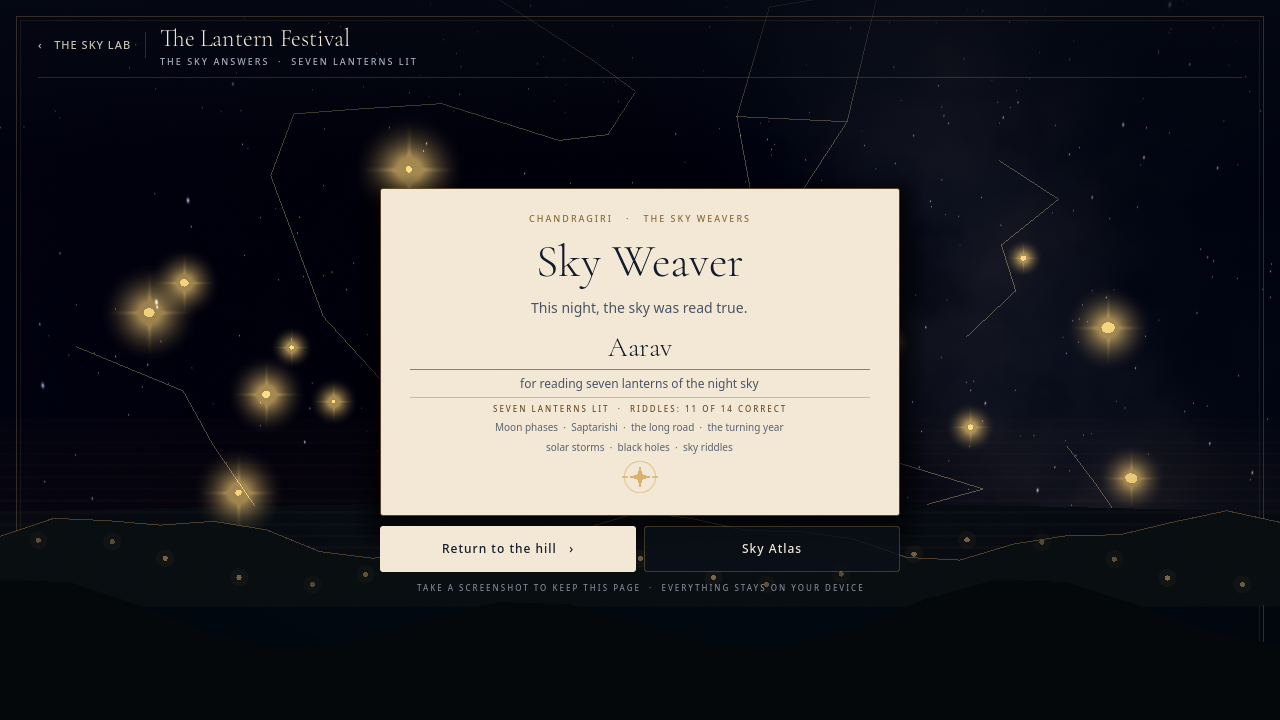
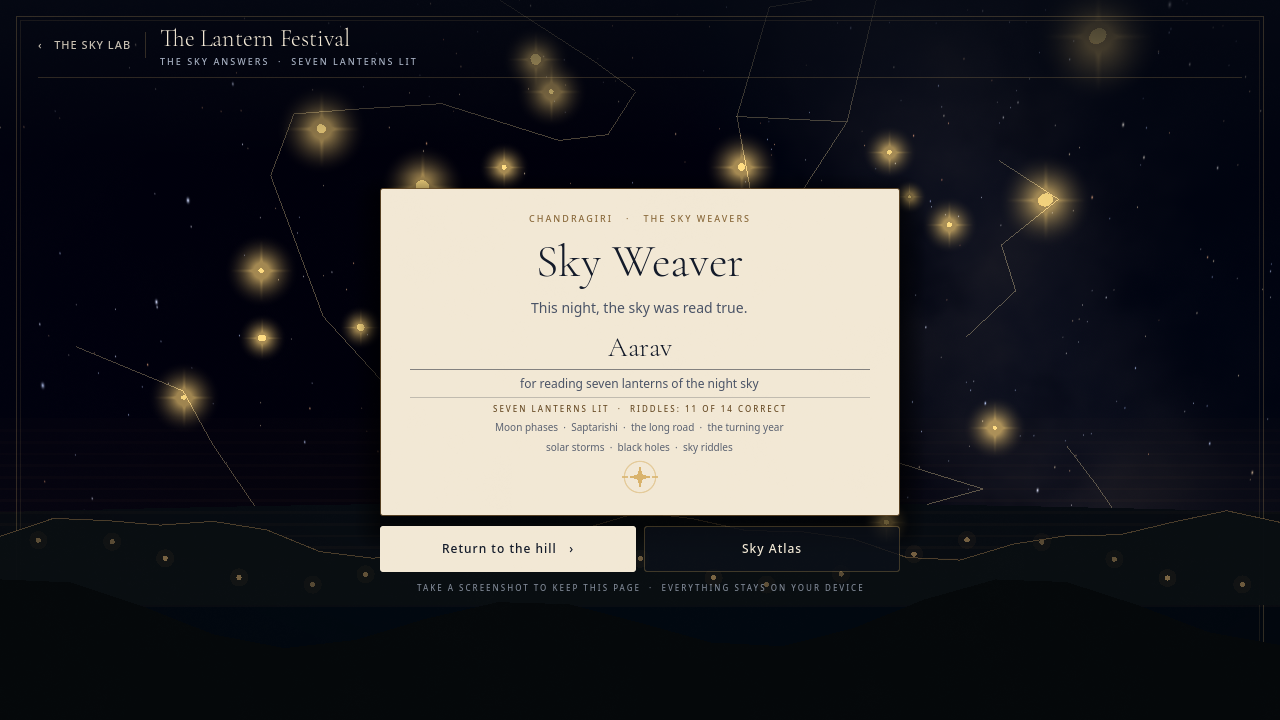
Polish almanac UI: final certificate shot, season labels, satellite, docs

diff --git a/CHANGELOG.md b/CHANGELOG.md
@@ -1,5 +1,48 @@
 # Changelog
 
+## Unreleased — The almanac edition
+
+### Changed
+
+- **The whole interface is now a printed sky almanac.** `scripts/UI.gd` is the
+  single source of truth: ink ground, cream paper modals, gold hairlines,
+  near-square corners and one vermilion accent. The old rounded pills, teal
+  glows and template cards are gone.
+- **Typography carries the hierarchy**: Cormorant Garamond for display and
+  numerals, tracked Noto Sans for micro-caps, Noto Sans Kannada for the Kannada
+  line. Every modal is a paper sheet over a dimmed scene.
+- **The hub is a catalogue shelf**: numbered cards, short catalogue tags, a
+  cream colophon card, and a responsive 4/3/1-column grid. Compact layouts get
+  shorter cards and a scroll region instead of clipped rows.
+- **New engraved plates** replace the generated card illustrations:
+  `tools/make_plates.py` draws the moon phases, Saptarishi field, turning year,
+  solar storm, black hole, riddles, atlas and title plate as deterministic line
+  art. `data/content.json` points at `assets/art/plates/`.
+- **New store cover** (`tools/make_store_cover.py`) and a refreshed fourteen-shot
+  store set under `itch/`.
+
+### Fixed
+
+- **The Field Guide could not open.** The old QA route awaited a timer on the
+  title scene, which was freed before the callback; the hub now owns the
+  hand-off through `G.pending_guide`.
+- **Compact hub clipping** at 780×437: the seventh card and the colophon fell
+  below the fold. Card heights, tags, and the scroll cap were adjusted.
+- **Kannada card titles** were appended under the English title and overlapped
+  it in the short card. Kannada mode now replaces the title.
+- **Tofu glyphs** on the arrow and check characters in tracked micro-caps;
+  replaced with `›`, `DONE`, and `LIT`.
+- **The 3D Kannada observatory sign** bled faintly through the lesson shelf at
+  compact sizes; it is hidden in compact mode and kept on desktop.
+- **Briefing plates cropped their engraved captions**; the frame now uses
+  contain fit so the whole plate is visible.
+- **Season labels** collided with Earth and the right-hand panel; June and
+  December now have anchored positions and December has a brighter colour.
+- **Solar Storm Lab's satellite** read as a stray blue square; it is rebuilt as
+  a small body with angled panels and a `SATELLITE` label.
+- **Stale web packs**: `tools/polish_web.py` stamps `mainPack` with a content
+  hash so the service worker cannot serve an old build after an update.
+
 ## v1.2.1 — Presenter polish · 2026-11-27
 
 ### Added

diff --git a/README.md b/README.md
@@ -189,6 +189,11 @@ python3 -m http.server 8060
 # deck: http://127.0.0.1:8060/index.html?scene=seminar
 ```
 
+The export includes `sw.js` and `manifest.webmanifest`. After the first load the
+browser caches the HTML, WASM, PCK, worklets and icons, so a reload with the
+network off still starts; the manifest also adds **Seminar deck** and **Sky Lab**
+home-screen shortcuts. Serve over HTTP/HTTPS, never `file://`.
+
 For a native seminar run without a browser:
 
 ```bash
@@ -196,7 +201,7 @@ godot --path nakshatra -- --screen=seminar
 ```
 
 `--screen=` also accepts `lab`, `moon`, `stars`, `scale`, `seasons`, `flares`,
-`blackhole`, `quiz`, `atlas` and `finale`.
+`blackhole`, `quiz`, `atlas`, `finale`, `guide`, `seminar` and `present`.
 
 ---
 
@@ -212,6 +217,8 @@ python tools/build_sky_data.py
 # 2. (Optional) regenerate the art, audio and seminar figures
 python tools/make_art.py             # ComfyUI on http://127.0.0.1:8188
 python tools/make_audio.py
+python tools/make_plates.py          # engraved almanac plates (Pillow)
+python tools/make_store_cover.py     # itch cover from the title plate
 python tools/make_seminar_assets.py  # deck screenshots, crops, architecture figure
 
 # 3. Export, brand the loader, package the itch zip and refresh stats
@@ -330,6 +337,10 @@ issue — accuracy matters more than polish.
 
 - **Free choice is the point.** There is no level lock, no forced order, and no
   “complete the story to learn”. The story is a wrapper, not a gate.
+- **A printed almanac, not a template.** `scripts/UI.gd` holds the whole visual
+  system: ink ground, cream paper modals, gold hairlines, near-square corners
+  and one vermilion accent. Display type is Cormorant Garamond; labels are
+  tracked Noto Sans; every overlay is a paper sheet, not a frosted panel.
 - **One real sky.** The stars are not a decorative texture: positions,
   brightnesses and colours come from the HYG catalogue. Constellation lines are
   the official IAU figures; nakshatra lines are from Stellarium's Indian

diff --git a/docs/STATS.md b/docs/STATS.md
@@ -14,7 +14,7 @@ Generated by `python tools/project_stats.py`.
 | Planet fact sheets | 8 |
 | Scale riddles | 4 |
 | Seminar slides | 12 |
-| GDScript files / lines | 35 / 12,789 |
+| GDScript files / lines | 35 / 12,874 |
 | Shader files / lines | 16 / 660 |
 | Scene files | 12 |
 | Illustration files | 12 |
